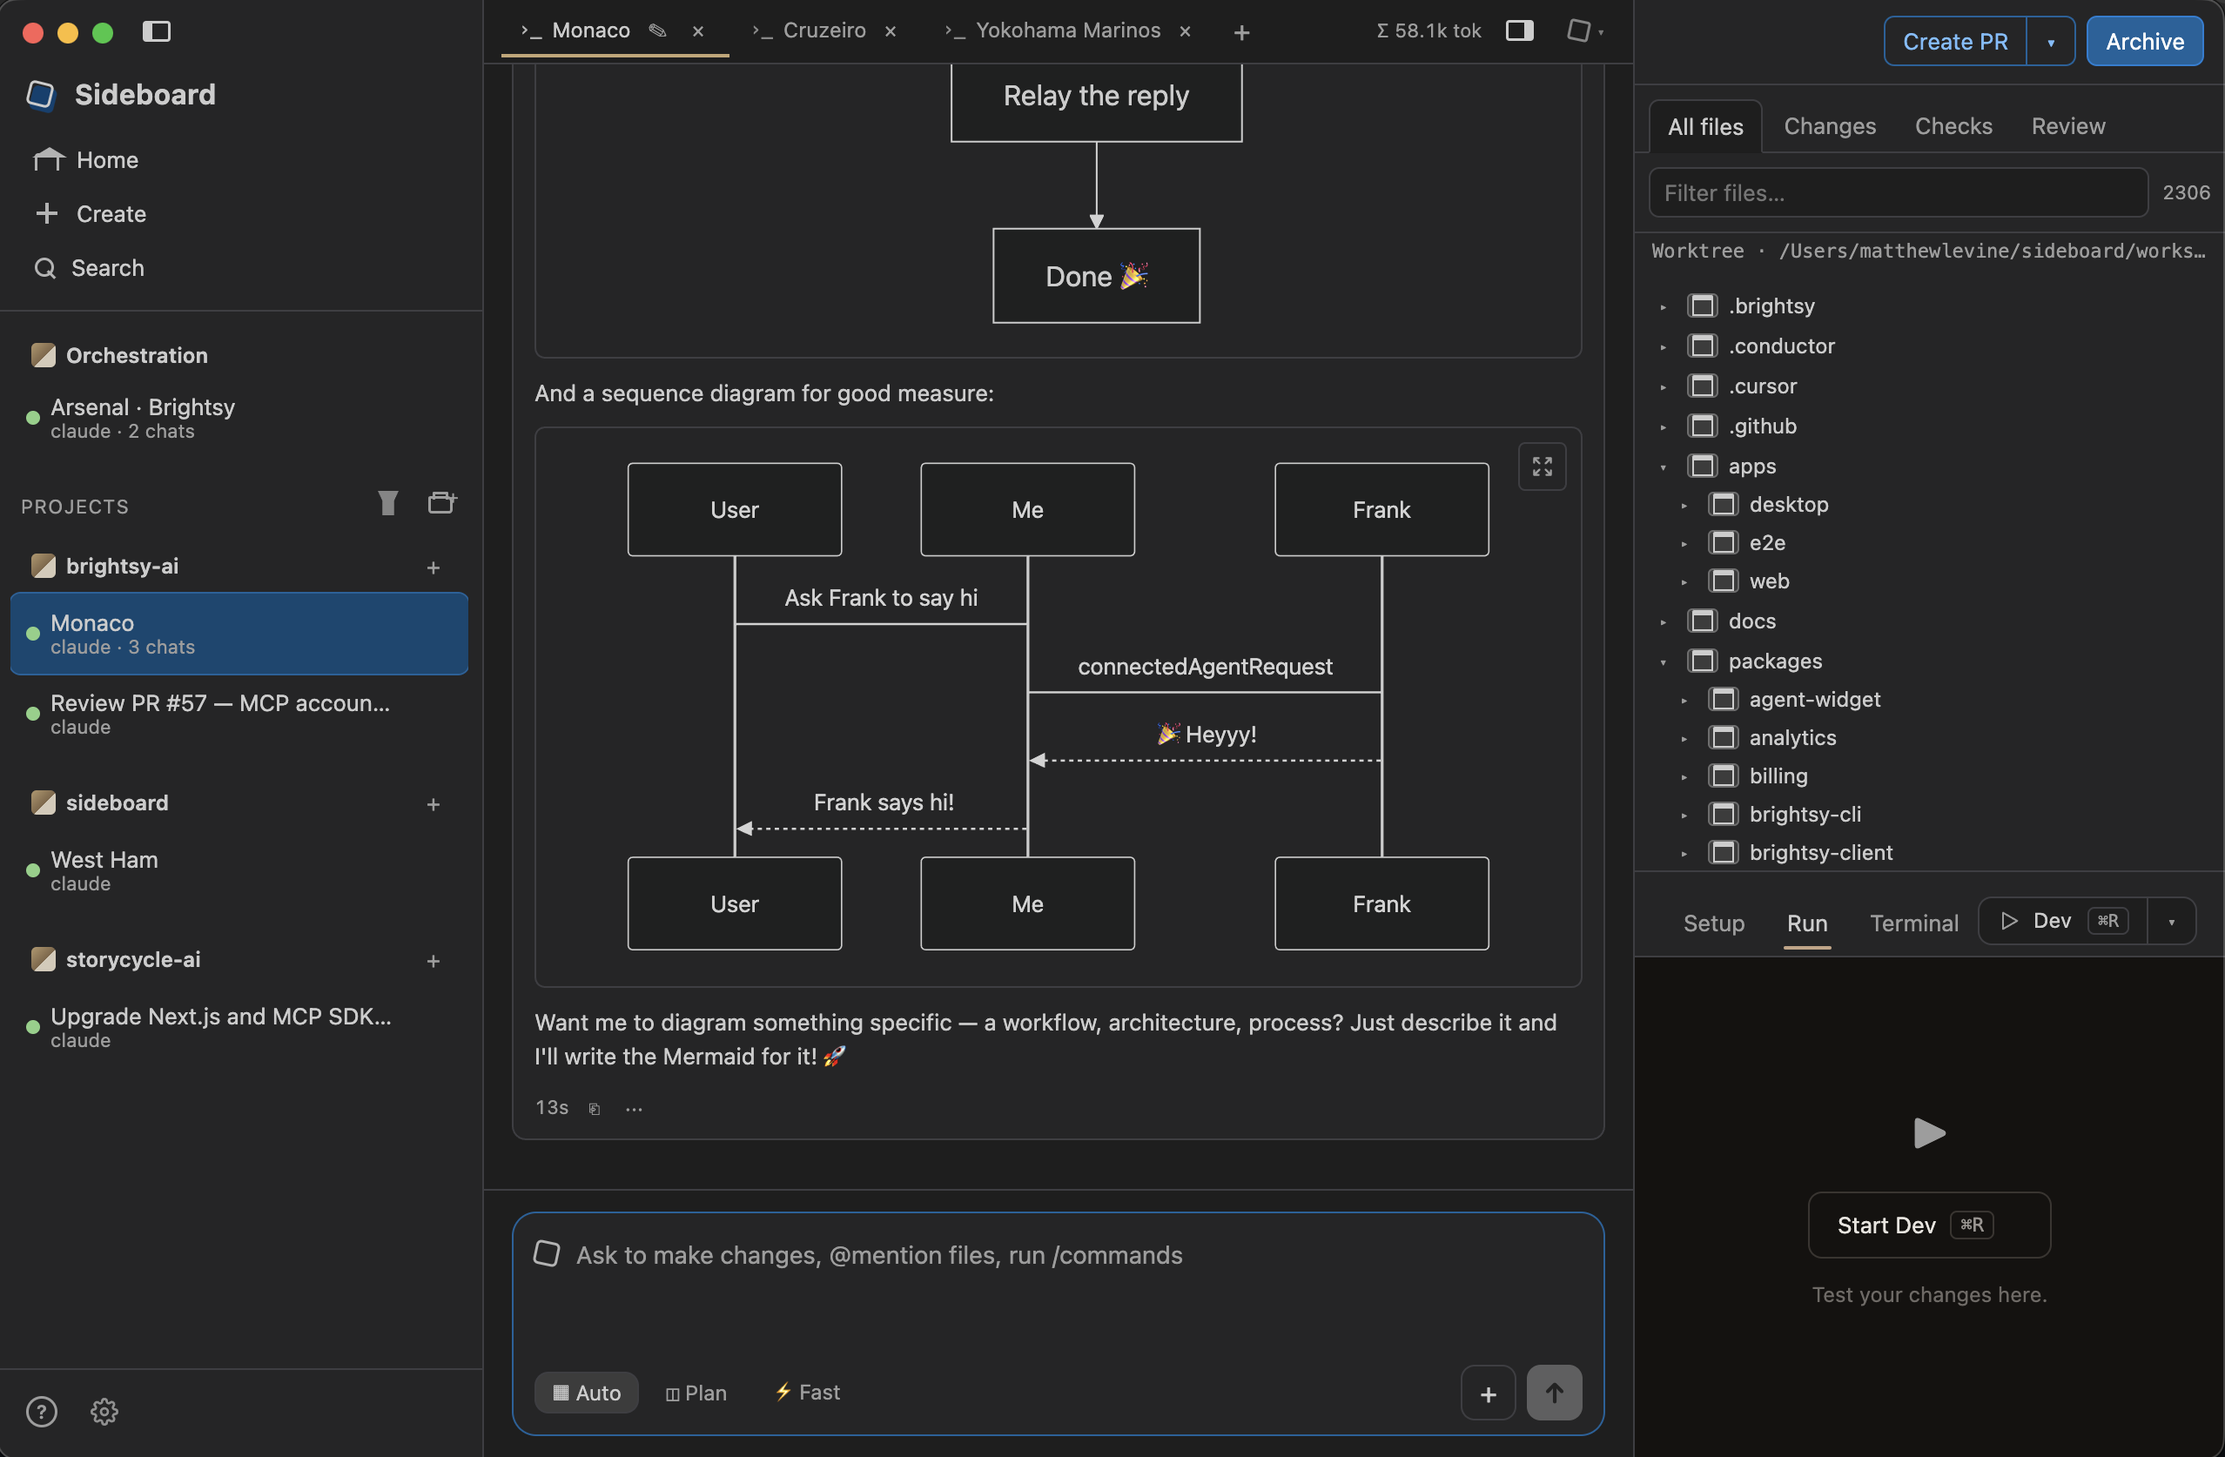
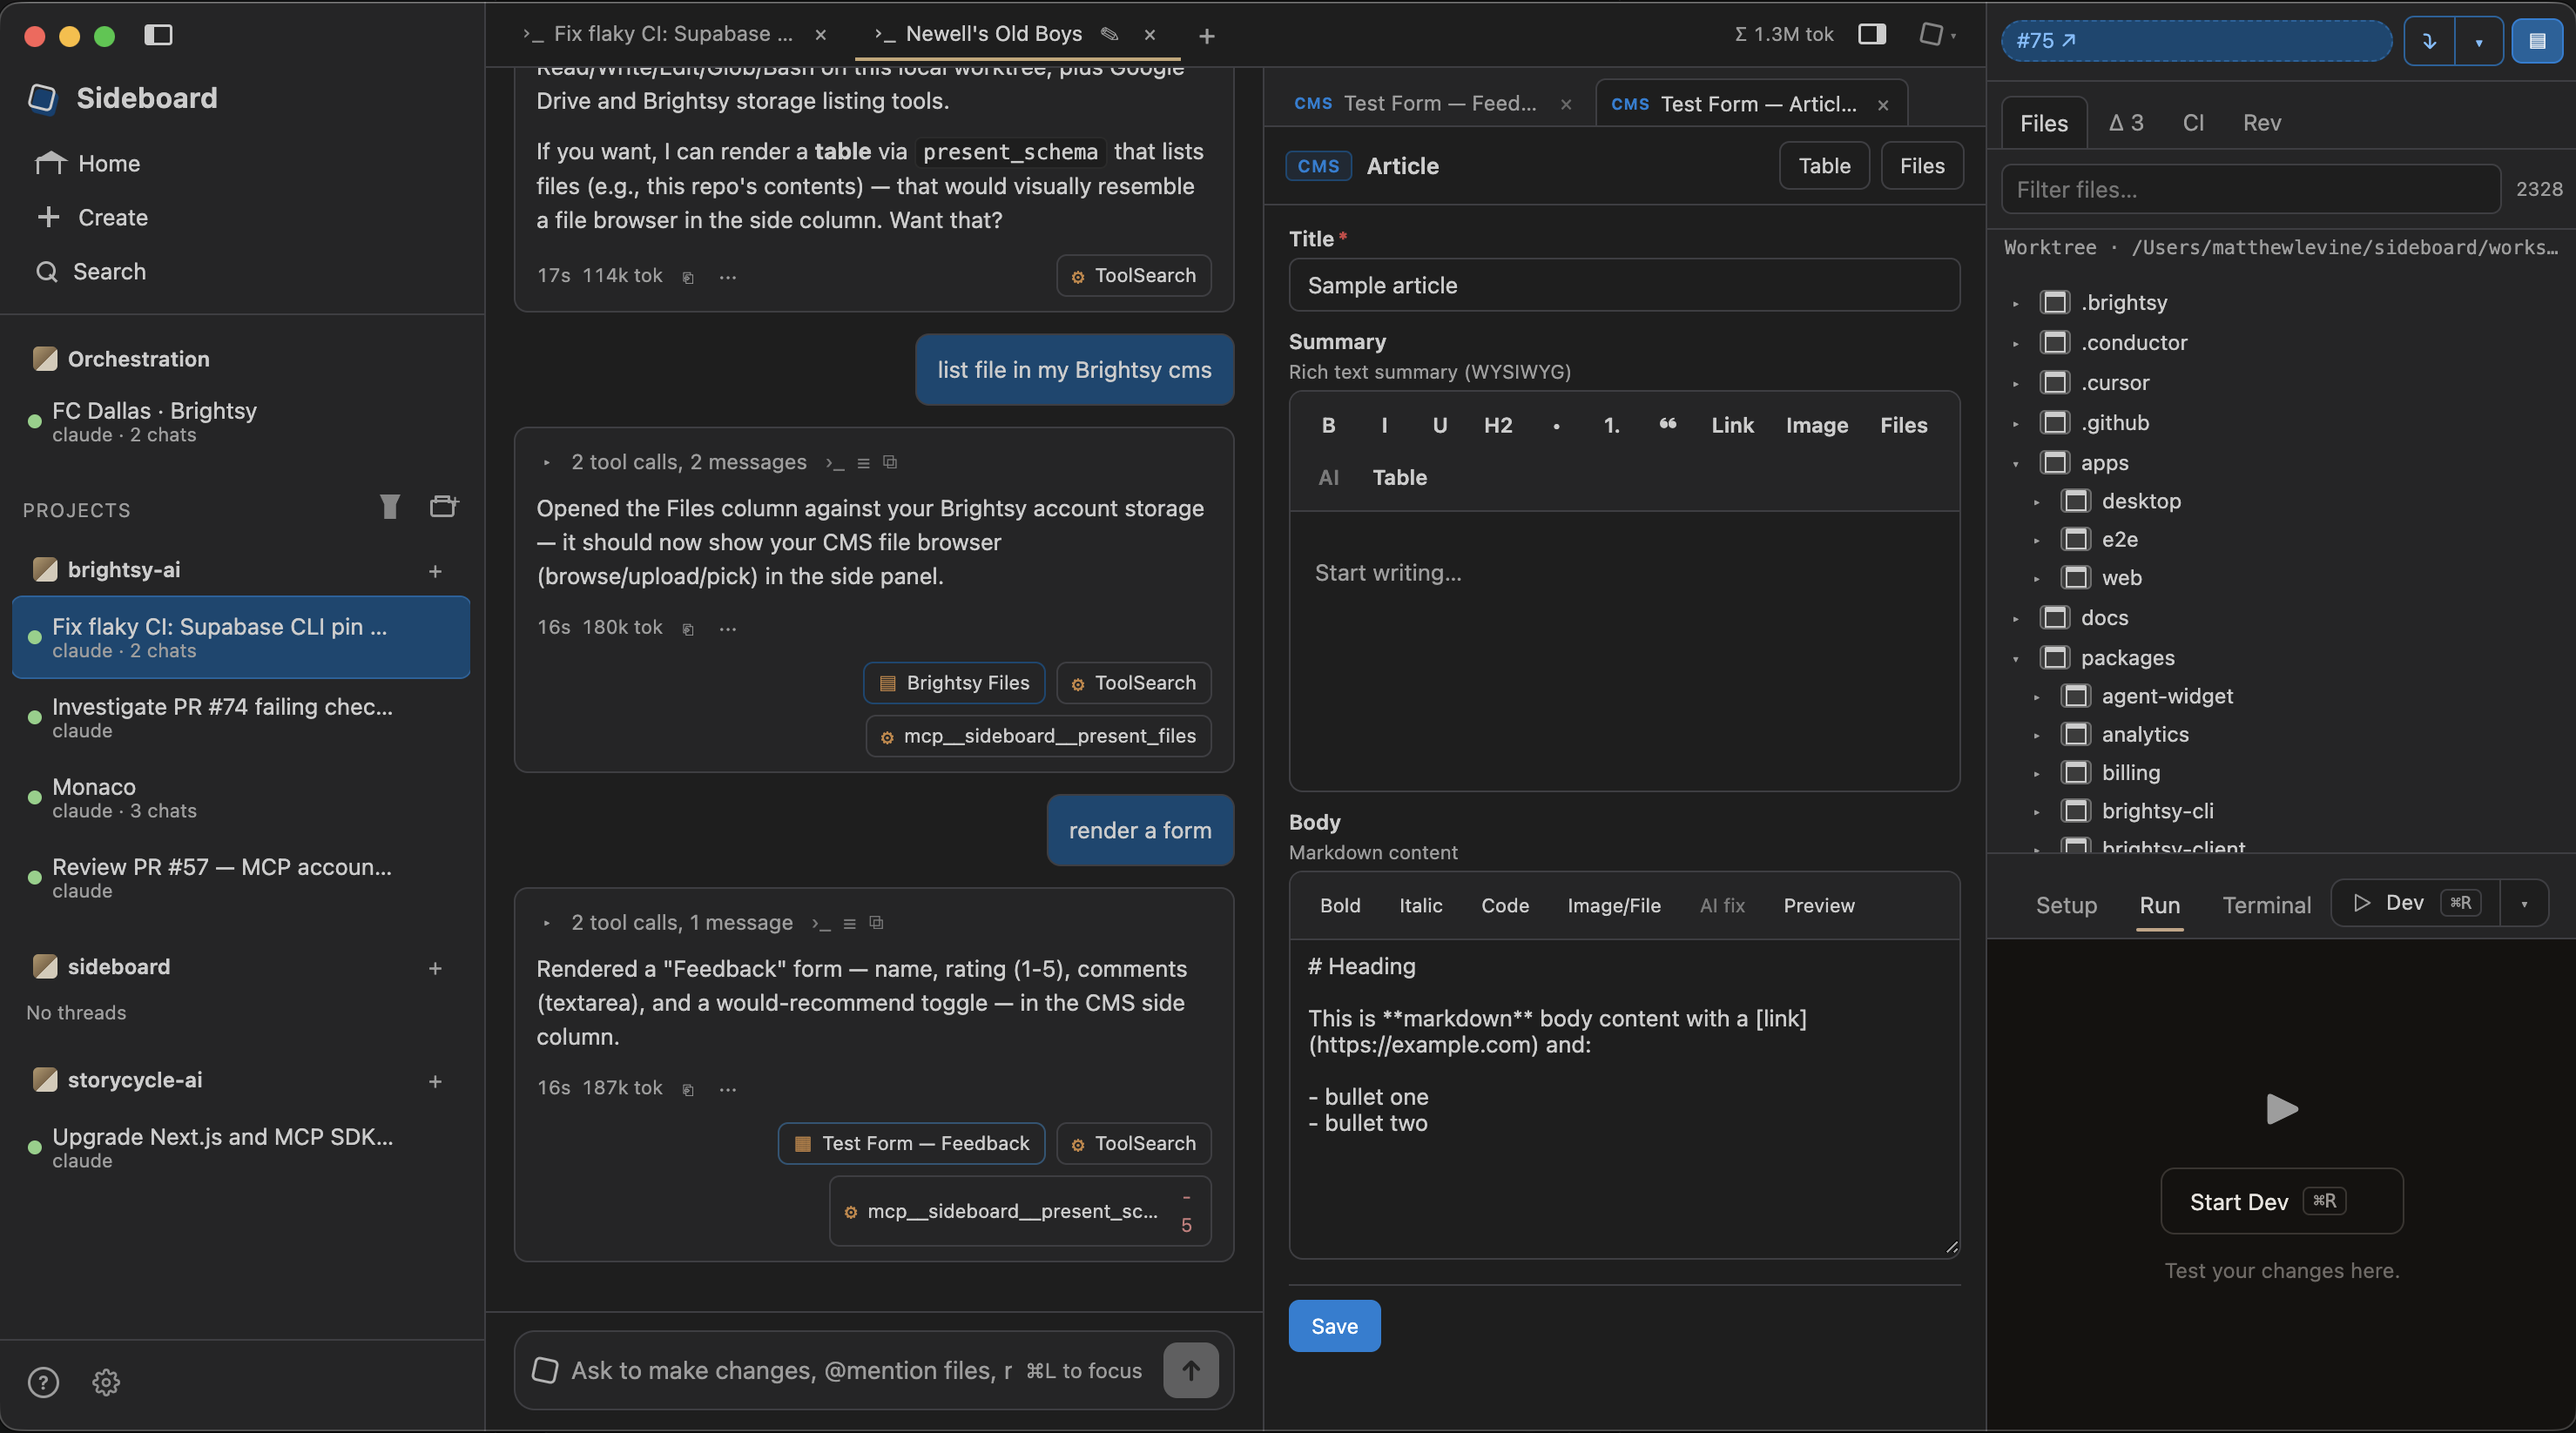
Document CMS-agnostic structure panes and refresh the desktop screenshot.

diff --git a/README.md b/README.md
@@ -2,23 +2,23 @@
 
 **Your agent threads aren't trapped anywhere.**
 
-When you run many AI coding agents at once, the hard part isn't spawning worktrees — it's knowing what's going on, and not getting stuck inside someone else's UI.
+When you run many AI coding agents at once, the hard part isn't spawning worktrees — it's knowing what's going on, editing what they produce, and not getting stuck inside someone else's UI.
 
-Sideboard is an open control plane over git worktrees:
+Sideboard is an open control plane over git worktrees — plus a desktop surface where agents can open **structured work beside chat**: documents, schema-driven CMS tables/forms, and file managers.
 
-1. **A global board for you** — see status, live output, and fan-out across every thread in one place
-2. **An MCP for the agents** — Claude Code and Codex can list threads, wait on turns, read diffs, and orchestrate work instead of treating the fleet as a black box
+1. **A global board for you** — status, live output, and fan-out across every thread
+2. **An MCP for the agents** — list threads, wait on turns, read diffs, orchestrate the fleet, and present artifacts / schemas / files in the desktop column
 3. **A door back to the native harness** — `attach` into Claude/Codex/OpenCode mid-flight, or `adopt` sessions that started elsewhere
 
 Run agents in isolated `thread/*` worktrees from the CLI, desktop app, or MCP — then move in and out of Sideboard as you choose.
 
-![Sideboard desktop — worktree chat, Mermaid diagrams, and file tree](docs/assets/sideboard-desktop.png)
+![Sideboard desktop — worktree chat, schema CMS form, and files sidebar](docs/assets/sideboard-desktop.png)
 
-**Brightsy is optional.** Core CLI, MCP, and desktop board work with Claude Code, Codex, OpenCode, and Cursor alone. CLI and MCP also run separately from the desktop app — you can build your own Slack/Discord bridges on them ([docs/remote-integrations.md](docs/remote-integrations.md)).
+**Agents and CMSes are optional plugs, not the product.** Core CLI, MCP, and desktop board work with Claude Code, Codex, OpenCode, and Cursor alone. The structure column is **CMS-agnostic**: tables/forms render from JSON Schema + `schemaUi`; files are a generic manager. Brightsy is the first wired provider — inline schemas and memory files work without it. CLI and MCP also run separately from the desktop app — you can build your own Slack/Discord bridges on them ([docs/remote-integrations.md](docs/remote-integrations.md)).
 
 ## Why it exists
 
-Most multi-agent tools optimize for parallelism. Sideboard optimizes for **visibility and handoff**:
+Most multi-agent tools optimize for parallelism. Sideboard optimizes for **visibility, handoff, and structured review**:
 
 | Job | Typical tools | Sideboard |
 |-----|---------------|-----------|
@@ -27,12 +27,18 @@ Most multi-agent tools optimize for parallelism. Sideboard optimizes for **visib
 | Let an agent *reason about* other threads | Opaque / none | MCP: list, send, wait, diff |
 | Drop into the native CLI mid-session | Weak or one-way | `attach` keeps the same session |
 | Bring existing worktrees / Conductor workspaces in | Stuck or start over | `adopt` + Conductor import |
+| Review HTML / docs the agent built | Copy out, or locked chat UI | `present_artifact` → tabbed side column |
+| Edit records / content next to the coding thread | Separate CMS tab, context lost | `present_schema` → CMS-agnostic table + form from JSON Schema |
+| Pick / upload media for those records | Another app | `present_files` → file manager tabs the form can select from |
 
-Mechanical control (list, send, diff, land) stays on the CLI — zero tokens. Use MCP when an agent needs *judgment* across threads. Land and purge stay human-only.
+The fit: coding agents already touch product data, content, and assets — but the review loop usually leaves the chat. Sideboard keeps **code worktrees and structured surfaces in one thread**, so you can approve a PR *and* the record / file it depends on without hopping tools — without locking you into one CMS vendor.
+
+Mechanical control (list, send, diff, land) stays on the CLI — zero tokens. Use MCP when an agent needs *judgment* across threads or needs to open a pane. Land and purge stay human-only.
 
 Also true, and useful on the way:
 
 - **Agent-agnostic** — Claude Code, Codex, OpenCode, Cursor (via `@cursor/sdk`, Conductor-style); optionally Brightsy (hosted chat via `brightsy chat --json`; no local file edits)
+- **CMS-agnostic** — UI is schema-driven; Brightsy is one datasource. Inline / memory (and future providers) use the same table, form, and files chrome
 - **Surface-agnostic** — CLI (`sideboard` / `side`), Electron desktop, MCP, or native interactive via `attach`
 - **Origin-agnostic** — create from branch/PR/ticket, adopt any worktree, import Conductor workspaces with chat history
 - **Integration-friendly** — remote chat (Slack, etc.) can sit on CLI/MCP without Brightsy; see [docs/remote-integrations.md](docs/remote-integrations.md)
@@ -160,7 +166,40 @@ sideboard adopt --from-conductor # import Conductor workspaces + history
 
 Aliases: `side` → `sideboard`.
 
-For the global board and live orchestration UI, run the desktop app.
+For the global board, live orchestration, and structured side column, run the desktop app.
+
+## Desktop — structure beside chat (CMS-agnostic)
+
+Each worktree chat can open a **single resizable right column** with tabs. Agents (or you, via chips) add tabs; they stay open per chat until you close them or a different payload replaces that tab.
+
+The CMS UI is **not Brightsy-shaped chrome**. Sideboard renders a generic resource: JSON Schema + optional `schemaUi`, records, and a file datasource. Providers only implement list/get/save (and publish when the resource declares content states). Swap the backend — same table, form, and files tabs.
+
+| Tab kind | MCP tool | What you get |
+|----------|----------|--------------|
+| **Document** | `present_artifact` | HTML / SVG / markdown preview (Claude-style artifacts, but yours) |
+| **CMS** | `present_schema` | Filterable table + form from JSON Schema / `schemaUi` — rich text, markdown, relationships; Save vs Publish only when `contentStates` (or `ui:contentStates`) say so |
+| **Files** | `present_files` | Browse / upload / pick against whatever file datasource is attached |
+
+**CMS-agnostic features (same UI for every provider)**
+
+- Schema-driven table (filters, open row → form) and form (typed fields from JSON Schema)
+- TipTap rich text + markdown editors wired through `schemaUi`, not vendor widgets
+- Has-one / has-many relationship fields with in-pane navigation
+- Draft / published lifecycle only when the resource opts in — plain records stay save-only
+- Form media fields open a Files tab in **select mode**, then return to the form (works across any open Files tabs)
+- Multiple CMS + Files tabs at once (different resources or storage roots in one column)
+- Per-chat tab memory; message chips reopen panes
+
+**Datasources today**
+
+| Surface | Provider | When to use |
+|---------|----------|-------------|
+| Schema | `brightsy` | Logged-in Brightsy team + `resource_id` (record type) |
+| Schema | `inline` | Embed `resource` / `records` in the tool call — demos, fixtures, or any agent that can supply schema JSON |
+| Files | `brightsy` | Team / account file storage |
+| Files | `memory` | Session-local demo store (no Brightsy) |
+
+Drag onto the file manager from Finder or from Sideboard’s worktree file lists. New providers plug in at the datasource interface — they do not fork the column UI.
 
 ## MCP — agents that can see the fleet
 
@@ -173,6 +212,7 @@ Point Claude Code, Codex, or any MCP client at that server. Agents get tools to:
 - **Discover** — `list_workspaces` (path + GitHub slug), `list_branches` / `list_prs` / `list_issues` (Linear or GitHub), `list_threads`
 - **Workspaces** — `add_workspace` / `remove_workspace`
 - **Worktree chats** — `create_thread` → `send_to_thread` → `wait_for_turn` / `get_turn_result`; `stop_thread` force-stops (kills in-flight turn and clears the prompt queue); `send_to_thread` accepts optional `force_stop` to interrupt+replace; `archive_thread`, `restore_thread`
+- **Present structure (desktop)** — `present_artifact` (HTML/SVG/MD), `present_schema` (CMS-agnostic table/form from JSON Schema), `present_files` (file manager); open as tabs in the chat’s right column
 - **Setup / run** — `run_setup`, `list_run_scripts`, `run_dev_script`, `stop_dev_script`
 - **Inspect / PRs** — `get_diff`; ask worktree agents via `send_to_thread` to `gh pr create --draft` (no host draft-PR tool)
 
@@ -210,6 +250,9 @@ sideboard brightsy teams
 sideboard brightsy connect-team <slug>   # connect + activate
 sideboard brightsy disconnect-team <slug>
 ```
+
+Connected teams unlock the **Brightsy datasource** for `present_schema` / `present_files` (record types + account file storage). The column UI is the same as inline/memory — Brightsy is a provider, not a required CMS.
+
 ## Optional: Brightsy remote orchestrator (Slack / Discord / Teams)
 
 > **Optional.** This is one remote path. You can build your own Slack/Discord bridge on Sideboard CLI/MCP instead — see [docs/remote-integrations.md](docs/remote-integrations.md).
